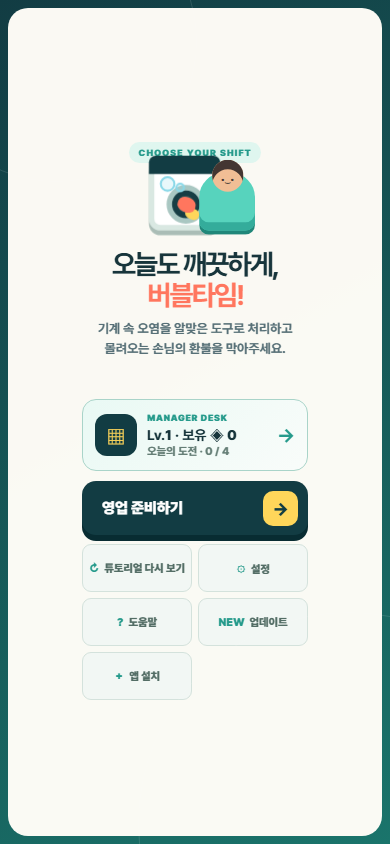
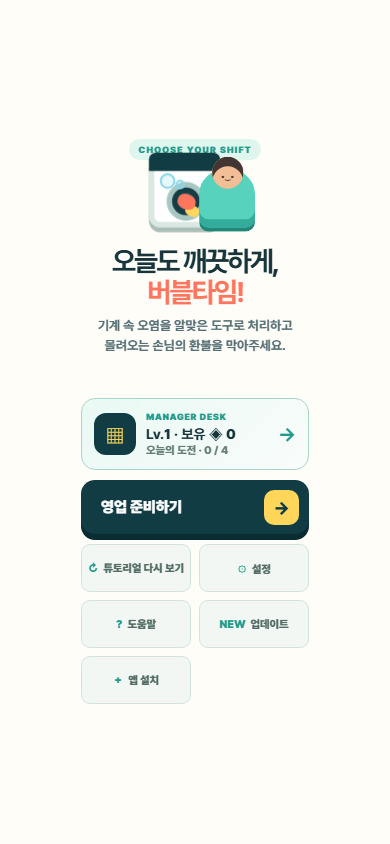
feat: polish mobile page flow and spacing

diff --git a/index.html b/index.html
@@ -24,9 +24,9 @@
     <link rel="manifest" href="./manifest.webmanifest" />
     <link rel="icon" href="./icon.svg" type="image/svg+xml" />
     <link rel="apple-touch-icon" href="./assets/icon-192.png" />
-    <link rel="stylesheet" href="./styles.css?v=2.9.0" />
-    <script src="./game-config.js?v=2.9.0" defer></script>
-    <script src="./script.js?v=2.9.0" defer></script>
+    <link rel="stylesheet" href="./styles.css?v=2.10.0" />
+    <script src="./game-config.js?v=2.10.0" defer></script>
+    <script src="./script.js?v=2.10.0" defer></script>
   </head>
   <body>
     <a class="skip-link" href="#play-area">게임 화면으로 바로가기</a>
@@ -492,14 +492,14 @@
     <div class="modal-backdrop" id="updates-modal" role="dialog" aria-modal="true" aria-labelledby="updates-title" aria-hidden="true">
       <section class="modal progression-modal updates-card">
         <button class="modal-close utility-page-back" id="updates-close-button" type="button" aria-label="업데이트 안내에서 홈으로 돌아가기"><span class="utility-close-mark" aria-hidden="true">×</span><span class="utility-back-arrow" aria-hidden="true">←</span><b>홈</b></button>
-        <div class="modal-kicker">VERSION <span id="app-version-label">2.9.0</span></div>
-        <h2 id="updates-title">모바일 한 화면 영업 업데이트</h2>
-        <p>2026.08 · 홈의 보조 화면은 슬라이드로 이어지고, 영업 화면은 세로 스크롤 없이 핵심 조작이 보입니다.</p>
+        <div class="modal-kicker">VERSION <span id="app-version-label">2.10.0</span></div>
+        <h2 id="updates-title">모바일 페이지 흐름 업데이트</h2>
+        <p>2026.08 · 홈부터 영업 준비와 관리 화면까지 한 앱처럼 자연스럽게 이어지고, 매장은 더 넓게 보입니다.</p>
         <div class="update-list">
-          <article><span>SLIDE</span><div><h3>페이지처럼 이어지는 보조 화면</h3><p>설정·도움말·업데이트가 오른쪽에서 들어오고 홈으로 돌아갈 때 다시 오른쪽으로 빠집니다.</p></div></article>
-          <article><span>HUD</span><div><h3>두 줄로 압축한 영업 정보</h3><p>시간·점수·환불과 콤보·만족도·대기를 짧은 두 줄에 모아 보드 공간을 넓혔습니다.</p></div></article>
-          <article><span>BOARD</span><div><h3>한 화면에 보이는 매장</h3><p>390×844 기준으로 세탁기·건조기 12대와 도구판을 스크롤 없이 확인할 수 있습니다.</p></div></article>
-          <article><span>PAUSE</span><div><h3>일시정지에서 빠른 설정</h3><p>영업 헤더에서는 일시정지에 집중하고 소리·진동·화면 옵션은 일시정지 화면에서 엽니다.</p></div></article>
+          <article><span>HOME</span><div><h3>화면을 꽉 채우는 홈</h3><p>바깥 카드와 어두운 여백을 걷어내고 다른 기능 화면과 같은 전체 페이지로 정리했습니다.</p></div></article>
+          <article><span>FLOW</span><div><h3>통일된 화면 이동</h3><p>MANAGER DESK와 영업 준비도 오른쪽에서 들어오며, 홈 복귀 시 불필요한 깜박임을 없앴습니다.</p></div></article>
+          <article><span>RESULT</span><div><h3>차분해진 결과 간격</h3><p>핵심 결과와 다음 행동 사이의 간격을 일정하게 맞춰 빠르게 훑어볼 수 있습니다.</p></div></article>
+          <article><span>BOARD</span><div><h3>더 넓어진 실제 매장</h3><p>상태 줄과 도구판 높이를 다듬어 390×844에서 플레이 보드에 더 많은 공간을 배정했습니다.</p></div></article>
         </div>
       </section>
     </div>

diff --git a/styles.css b/styles.css
@@ -4489,3 +4489,107 @@ body:has(.screen-view.open) {
 
   .pause-settings-action { min-height: 46px; font-size: 12px; }
 }
+
+/* v2.10 edge-to-edge mobile pages, steady navigation and denser controls */
+@media (max-width: 520px) {
+  .screen-view { scrollbar-gutter: auto; }
+
+  /* The home is the first page of the app, not a card floating over it. */
+  .home-screen {
+    padding: 0;
+    background: #f6f8f5;
+  }
+  .home-screen::before,
+  .home-screen::after { display: none; }
+  .home-screen.open { animation: none !important; }
+  .home-screen .intro-card {
+    width: 100%;
+    min-height: 100dvh;
+    padding: max(22px, env(safe-area-inset-top)) 18px max(24px, env(safe-area-inset-bottom));
+    border-radius: 0;
+  }
+  .intro-dashboard {
+    display: grid;
+    gap: 10px;
+    margin-top: 14px;
+  }
+  .mobile-manager-entry,
+  .intro-dashboard > .resume-shift-card,
+  .intro-card .primary-button,
+  .intro-utility-actions { margin: 0; }
+  .intro-utility-actions { gap: 8px; }
+
+  /* Home remains fully painted behind the outgoing page, preventing a flash. */
+  .home-screen.mobile-page-returning {
+    display: block;
+    opacity: 1;
+    transform: none;
+    animation: none !important;
+  }
+
+  /* Results use one predictable vertical rhythm. */
+  .workflow-screen .result-card {
+    display: flex;
+    flex-direction: column;
+    gap: 8px;
+    padding-top: max(16px, env(safe-area-inset-top));
+  }
+  .result-card > .result-badge { align-self: center; }
+  .result-face { margin: 2px auto 0; }
+  .result-card h2,
+  .result-card > p,
+  .new-record-banner,
+  .shift-earnings,
+  .result-manager-progress,
+  .achievement-unlock-banner,
+  .result-stats,
+  .result-rank,
+  .result-details,
+  .result-unlock-button,
+  .result-secondary-actions { margin: 0; }
+  .shift-earnings,
+  .result-manager-progress,
+  .result-stats,
+  .result-rank,
+  .result-details,
+  .result-retry-actions,
+  .result-unlock-button { width: 100%; }
+  .result-retry-actions { gap: 6px; margin-top: 2px; }
+
+  /* Reclaim chrome height for the machines without shrinking the key labels. */
+  .game-shell { gap: 3px; }
+  .topbar {
+    min-height: 40px;
+    grid-template-rows: 40px;
+  }
+  .brand-bubbles { width: 30px; height: 30px; }
+  .hud { height: 40px; }
+  .hud-card { min-height: 34px; }
+  .round-control { width: 34px; height: 34px; }
+  .mission-strip {
+    height: 34px;
+    min-height: 0;
+    padding: 1px;
+  }
+  .combo-meter,
+  .satisfaction-meter,
+  .queue-meter { height: 32px; }
+  .shift-objectives-hud {
+    height: 30px;
+    min-height: 0;
+    padding: 1px;
+  }
+  .shift-objectives-hud > div > span {
+    min-height: 28px;
+    padding: 2px 4px;
+  }
+  .shift-objectives-hud i { width: 19px; height: 19px; }
+  .tool-dock { padding: 5px; }
+  .tools { gap: 3px; }
+  .tool {
+    height: 44px;
+    grid-template-columns: 27px minmax(0, 1fr);
+    padding: 3px 5px;
+  }
+  .tool-art { width: 27px; height: 28px; transform: scale(.53); }
+}

diff --git a/script.js b/script.js
@@ -7,10 +7,10 @@ const STORAGE_KEY = "bubbleTime75.bestRecord.v1";
 const PROGRESSION_KEY = "bubbleTime75.progression.v1";
 const CHECKPOINT_KEY = "bubbleTime.shiftCheckpoint.v1";
 const SEEN_VERSION_KEY = "bubbleTime75.seenVersion";
-const APP_VERSION = "2.9.0";
+const APP_VERSION = "2.10.0";
 const DATA_SCHEMA_VERSION = 7;
 const MOBILE_PAGE_MEDIA = "(max-width: 520px)";
-const MOBILE_SLIDE_PAGE_IDS = new Set(["settings-modal", "help-modal", "updates-modal"]);
+const MOBILE_SLIDE_PAGE_IDS = new Set(["prep-modal", "stats-modal", "settings-modal", "help-modal", "updates-modal"]);
 
 const GAME_MODES = {
   quick: { label: "45초 빠른 영업", shortLabel: "45초", seconds: 45, objectiveScale: 0.75, rankScale: 0.72 },
@@ -779,12 +779,17 @@ function openPrepModal(fromRestart = false, rerollObjectives = true) {
   }
   prepareShiftObjectives(rerollObjectives || !state.shiftObjectives.length);
   state.returnModal = els.resultModal.classList.contains("open") ? "result-modal" : "intro-modal";
-  [els.introModal, els.resultModal, els.pauseModal].forEach((modal) => {
-    modal.classList.remove("open");
-    modal.setAttribute("aria-hidden", "true");
-  });
+  const source = document.querySelector(`#${state.returnModal}`) || els.introModal;
+  const slideFromHome = usesMobilePageSlide(els.prepModal, source) && source.classList.contains("open");
+  if (!slideFromHome) {
+    [els.introModal, els.resultModal, els.pauseModal].forEach((modal) => {
+      modal.classList.remove("open");
+      modal.setAttribute("aria-hidden", "true");
+    });
+  }
   els.prepModal.classList.add("open");
   els.prepModal.setAttribute("aria-hidden", "false");
+  if (slideFromHome) startMobilePageEntry(els.prepModal, source);
   updatePrepUi();
   window.setTimeout(() => {
     els.prepModal.querySelector(".modal").scrollTop = 0;
@@ -793,9 +798,10 @@ function openPrepModal(fromRestart = false, rerollObjectives = true) {
 }
 
 function closePrepModal() {
+  const target = document.querySelector(`#${state.returnModal}`) || els.introModal;
+  if (closeWithMobilePageSlide(els.prepModal, target, () => {})) return;
   els.prepModal.classList.remove("open");
   els.prepModal.setAttribute("aria-hidden", "true");
-  const target = document.querySelector(`#${state.returnModal}`) || els.introModal;
   target.classList.add("open");
   target.setAttribute("aria-hidden", "false");
   if (state.lastFocusedElement instanceof HTMLElement) window.setTimeout(() => state.lastFocusedElement.focus(), 80);

diff --git a/sw.js b/sw.js
@@ -1,12 +1,12 @@
 "use strict";
 
-const CACHE_NAME = "bubble-time-v2.9.0-r1";
+const CACHE_NAME = "bubble-time-v2.10.0-r1";
 const APP_SHELL = [
   "./",
   "./index.html",
-  "./styles.css?v=2.9.0",
-  "./game-config.js?v=2.9.0",
-  "./script.js?v=2.9.0",
+  "./styles.css?v=2.10.0",
+  "./game-config.js?v=2.10.0",
+  "./script.js?v=2.10.0",
   "./manifest.webmanifest",
   "./icon.svg",
   "./icon-maskable.svg",

diff --git a/README.md b/README.md
@@ -6,7 +6,7 @@
 
 ## 현재 상태
 
-- 현재 버전: `2.9.0`
+- 현재 버전: `2.10.0`
 - 배포 방식: GitHub `main` 푸시 후 Vercel 자동 배포
 - 기술 구성: HTML, CSS, Vanilla JavaScript
 - 저장 방식: 브라우저 `localStorage`
@@ -124,21 +124,22 @@
 
 데스크톱 관리 센터는 왼쪽 메뉴와 오른쪽 콘텐츠의 2열 구조이며, 모바일에서는 네 개의 관리 그룹이 화면 아래에 고정됩니다. 관리 기능끼리 이동할 때 배경 블러나 팝업 등장 애니메이션을 반복하지 않고 콘텐츠만 짧게 전환합니다.
 
-실제 오버레이 모달은 일시정지와 영업 중 빠른 설정처럼 현재 흐름을 잠시 중단해야 하는 기능에만 사용합니다. 모바일의 설정·도움말·업데이트는 홈 오른쪽에서 들어오고 `← 홈`으로 돌아가는 전체 페이지이며, 배경 블러와 팝업 카드 형태를 사용하지 않습니다. 전용 화면이 열려 있을 때는 배경 게임 화면의 스크롤을 잠가 이중 스크롤을 방지합니다.
+실제 오버레이 모달은 일시정지와 영업 중 빠른 설정처럼 현재 흐름을 잠시 중단해야 하는 기능에만 사용합니다. 모바일 홈은 바깥 여백과 둥근 카드가 없는 전체 페이지이며, MANAGER DESK·영업 준비·설정·도움말·업데이트는 홈 오른쪽에서 들어와 `← 홈`으로 돌아갑니다. 복귀 중에는 완성된 홈을 아래에 계속 표시해 화면이 다시 페이드되거나 깜박이지 않습니다. 전용 화면이 열려 있을 때는 배경 게임 화면의 스크롤을 잠가 이중 스크롤을 방지합니다.
 
 ### 모바일 화면 원칙
 
 390px 폭을 기준으로 한 모바일 화면은 데스크톱 정보를 단순히 축소하지 않고 우선순위를 다시 구성합니다.
 
-- 홈: 최고 기록·일일 도전·수익·관리 버튼을 하나의 `MANAGER DESK` 카드로 묶고, 영업 시작을 첫 번째 행동으로 유지. 설정·도움말·업데이트는 좌우 슬라이드 페이지로 전환
+- 홈: 100dvh 전체 페이지에서 최고 기록·일일 도전·수익·관리 버튼을 하나의 `MANAGER DESK` 카드로 묶고, 주요 버튼은 10px·보조 버튼은 8px 간격으로 정렬
+- 화면 이동: MANAGER DESK·영업 준비·설정·도움말·업데이트를 동일한 좌우 슬라이드 페이지로 전환하고 복귀 시 홈 재등장 애니메이션을 생략
 - 영업 준비: 모드·난이도·오늘의 목표·매장 조건만 먼저 표시하고 완료된 주간 목표 목록은 숨김
-- 게임 HUD: 42px 상단 행에는 남은 시간·매출·환불과 일시정지만 두고, 콤보·만족도·대기 인원은 바로 아래 상태 행으로 분리. 최고 기록과 중복 설정·음향 버튼은 영업 중 숨김
-- 매장: 세탁기 6대와 건조기 6대를 각각 3열 2행으로 압축해 12대 모두 첫 화면에 표시
-- 도구판: 여섯 도구를 3열 2행으로 배치하고 도구명을 11px 이상으로 표시하며 한 화면 그리드의 마지막 행에 유지
-- 결과: 핵심 점수와 등급을 먼저 표시하고 목표·손님 유형·운영 분석은 `상세 영업 기록`으로 접어 제공
+- 게임 HUD: 40px 상단 행에는 남은 시간·매출·환불과 일시정지만 두고, 콤보·만족도·대기 인원은 바로 아래 상태 행으로 분리. 최고 기록과 중복 설정·음향 버튼은 영업 중 숨김
+- 매장: 390×844에서 실제 플레이 영역을 616px 이상 확보하고, 세탁기 6대와 건조기 6대를 각각 3열 2행으로 배치해 12대 모두 첫 화면에 표시
+- 도구판: 여섯 도구를 44px 높이의 3열 2행으로 배치하고 도구명을 11px 이상으로 유지하며 버튼 사이는 3px로 정리
+- 결과: 주요 정보 간격을 8px로 통일해 핵심 점수와 등급을 먼저 표시하고, 목표·손님 유형·운영 분석은 `상세 영업 기록`으로 접어 제공
 - 관리·설정: 하단 네 그룹 탐색을 유지하면서 설명, 버튼, 설정 라벨 글자 크기를 확대
 
-모바일 홈·영업 준비의 핵심 행동과 게임 HUD·기계 12대·도구 6개가 390×844 첫 화면 안에 들어오는지 회귀 검사합니다. 설정·도움말·업데이트의 진입·복귀 슬라이드와 모바일 접근성 역할도 함께 검사합니다.
+모바일 홈·영업 준비의 핵심 행동과 게임 HUD·기계 12대·도구 6개가 390×844 첫 화면 안에 들어오는지 회귀 검사합니다. 홈·MANAGER DESK·영업 준비의 전체 화면 너비, 공통 슬라이드, 깜박임 없는 복귀, 결과 간격도 함께 검사합니다.
 
 ## 자동 저장과 영업 복구
 
@@ -201,7 +202,7 @@ node tests/laundry-game-ui.cjs
 | --- | --- |
 | `laundry-game-balance.cjs` | 대응 속도별 생존율, 환불, 최대 대기 줄과 실패 시점 |
 | `laundry-game-release.cjs` | 필수 UI·기능·PWA 자산·PNG 크기와 온라인 기능 제외 상태 |
-| `laundry-game-ui.cjs` | 실제 브라우저에서 전용 홈·관리 센터 전환, 모드 선택, 오염 청소, 고장·정전·세제 대응, 체크포인트 복구, 결과→홈 이동, 모바일 전체 페이지 슬라이드·한 화면 HUD·기계 12대·3×2 도구판·고정 탐색 |
+| `laundry-game-ui.cjs` | 실제 브라우저에서 전용 홈·관리 센터 전환, 모드 선택, 오염 청소, 고장·정전·세제 대응, 체크포인트 복구, 결과→홈 이동, 모바일 홈·MANAGER DESK·영업 준비 슬라이드, 깜박임 없는 복귀, 결과 간격·616px 매장·3×2 도구판·고정 탐색 |
 
 UI 회귀 검사는 설치된 Chrome 또는 Edge를 헤드리스 모드로 실행합니다. 브라우저를 자동으로 찾지 못하면 `BROWSER_PATH` 환경 변수를 지정합니다.
 
